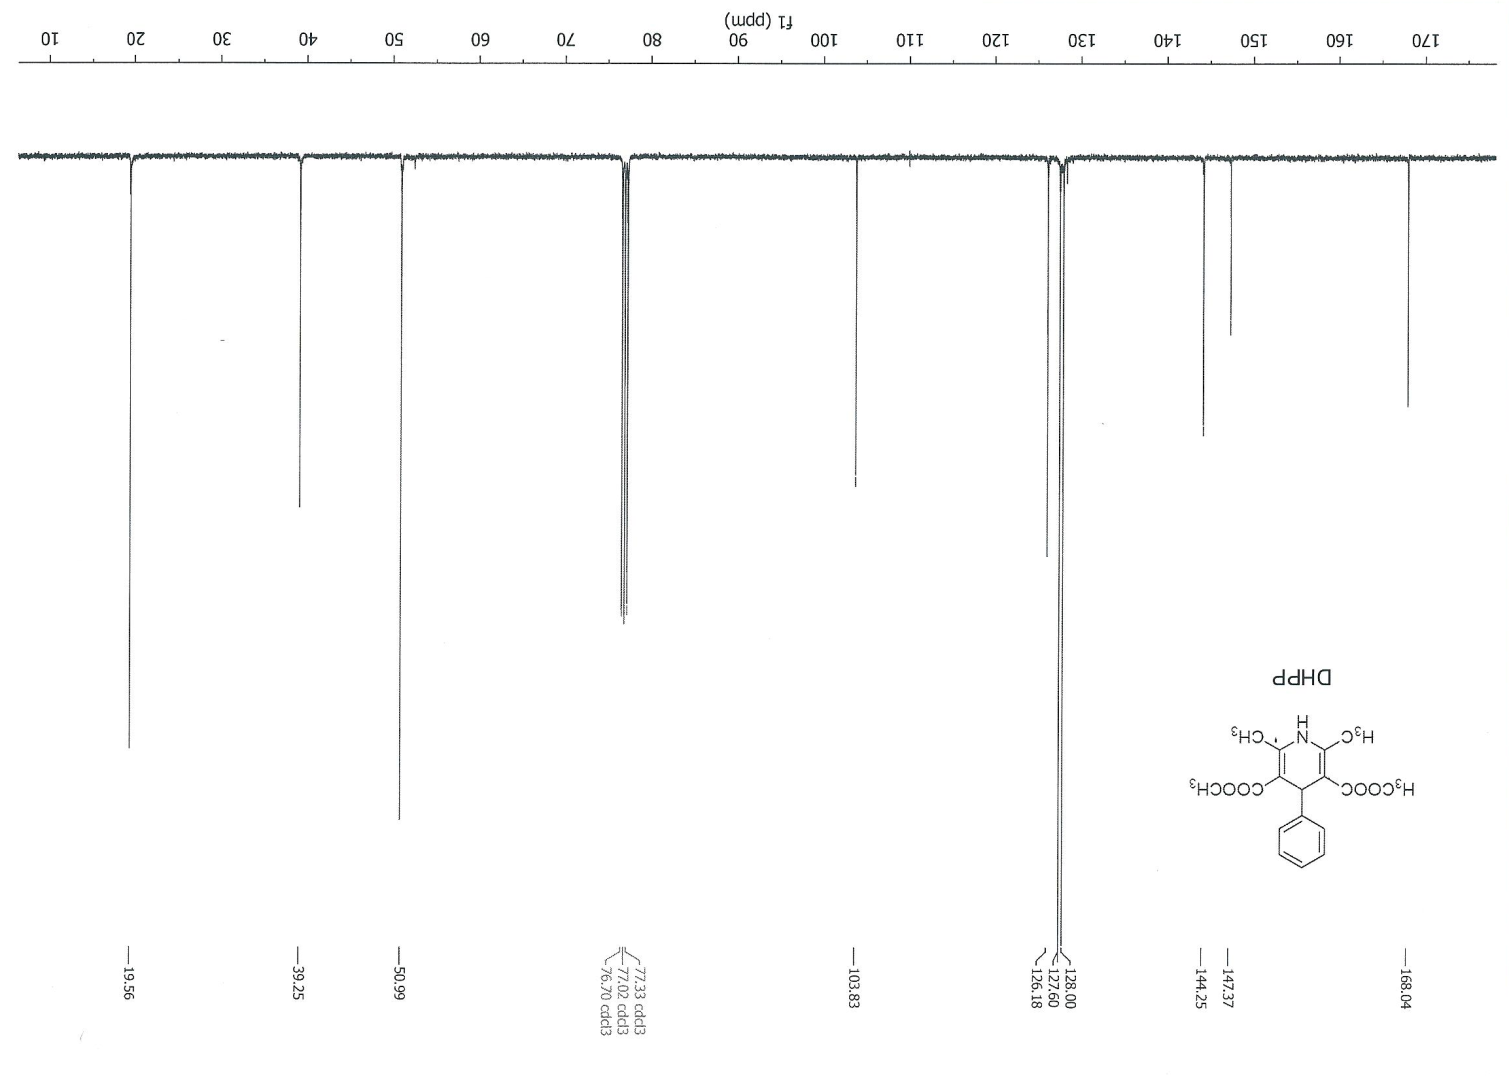
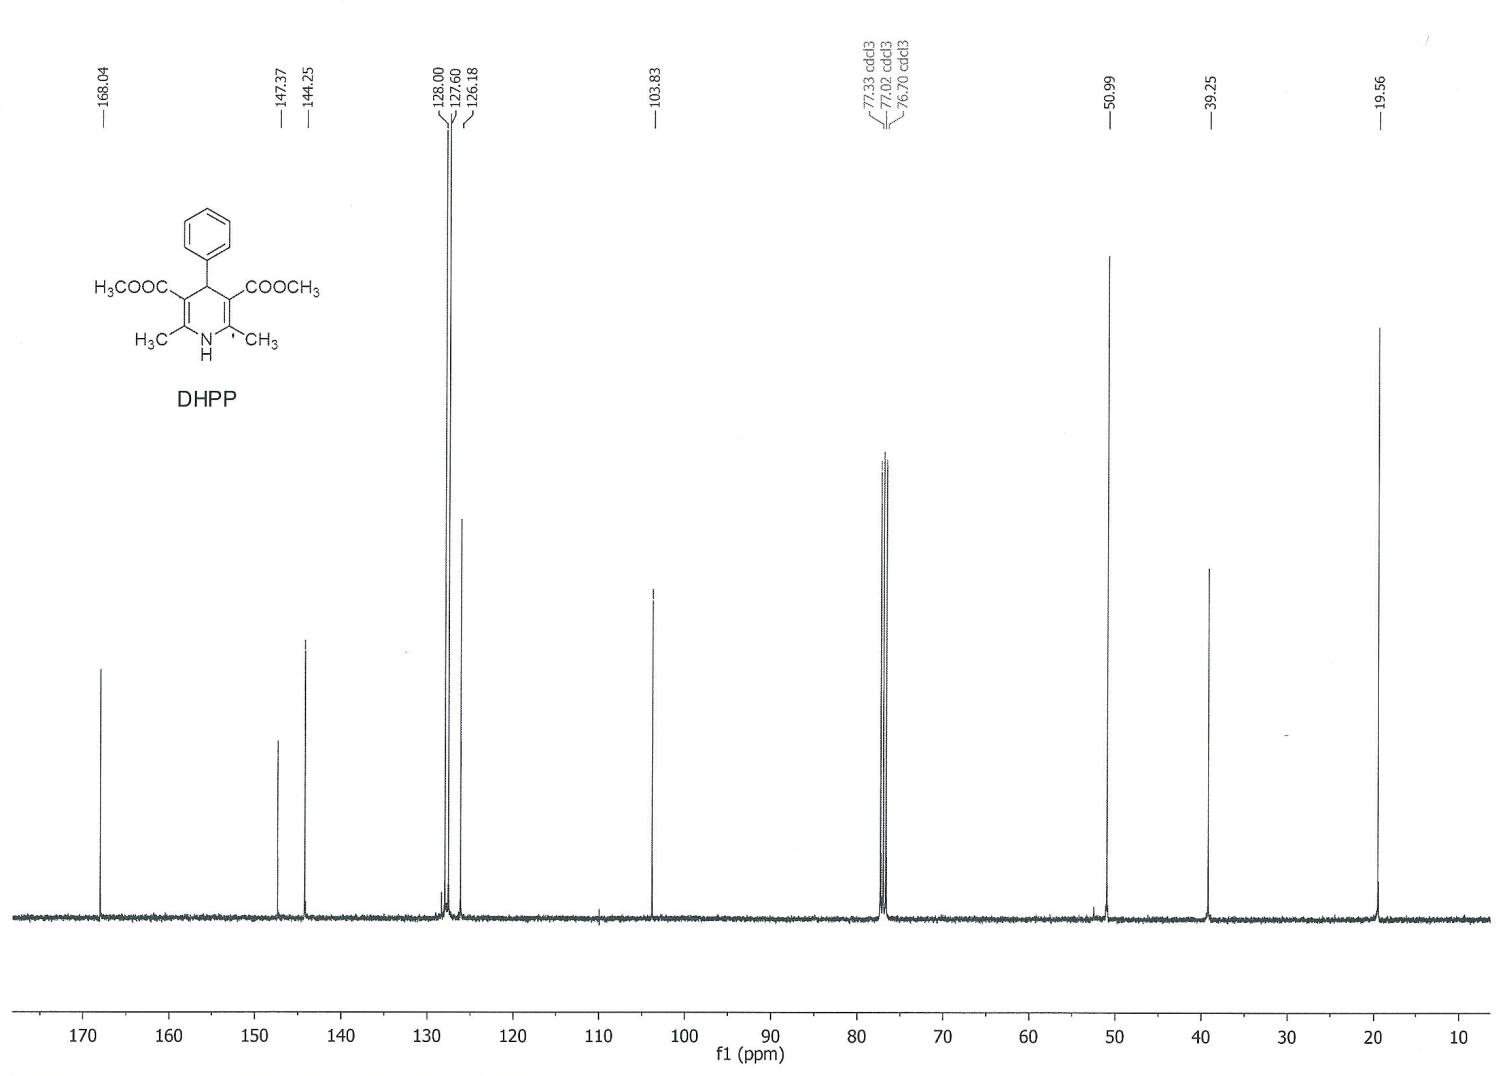
Corrige la orientación de los 12 espectros horizontales
Los ficheros _horizontal estaban girados 180 grados: el texto salía
invertido, las escalas de ppm corrían al revés (1.5 -> 11.0) y los picos
apuntaban hacia abajo, lo que en un DEPT-135 además invierte la lectura
de CH/CH3 frente a CH2.

Se rotan en disco y no por CSS para que la impresión y la descarga
salgan también bien.

Los _portrait siguen siendo el escaneo original en vertical, así que el
botón deja de prometer un giro de 90 grados y dice lo que de verdad hace.

diff --git a/src/components/practicas/PracticasSpectroscopyWorkshop.tsx b/src/components/practicas/PracticasSpectroscopyWorkshop.tsx
@@ -229,10 +229,12 @@ export const PracticasSpectroscopyWorkshop: React.FC = () => {
                 onClick={() => setUseRotatedView(!useRotatedView)}
                 className="btn btn-sm btn-outline"
                 style={{ fontSize: '0.76rem', display: 'flex', alignItems: 'center', gap: '6px' }}
-                title="Girar 90 grados para lectura horizontal sin inclinar la cabeza"
+                title={useRotatedView
+                  ? 'Ver el escaneo tal cual salió del espectrómetro, en vertical'
+                  : 'Volver a la vista orientada para leer sin inclinar la cabeza'}
               >
                 <RotateCw size={14} />
-                {useRotatedView ? 'Vista Vertical' : 'Vista Horizontal 90° (Recomendada)'}
+                {useRotatedView ? 'Ver escaneo original' : 'Vista orientada (recomendada)'}
               </button>
             </div>
           </div>
